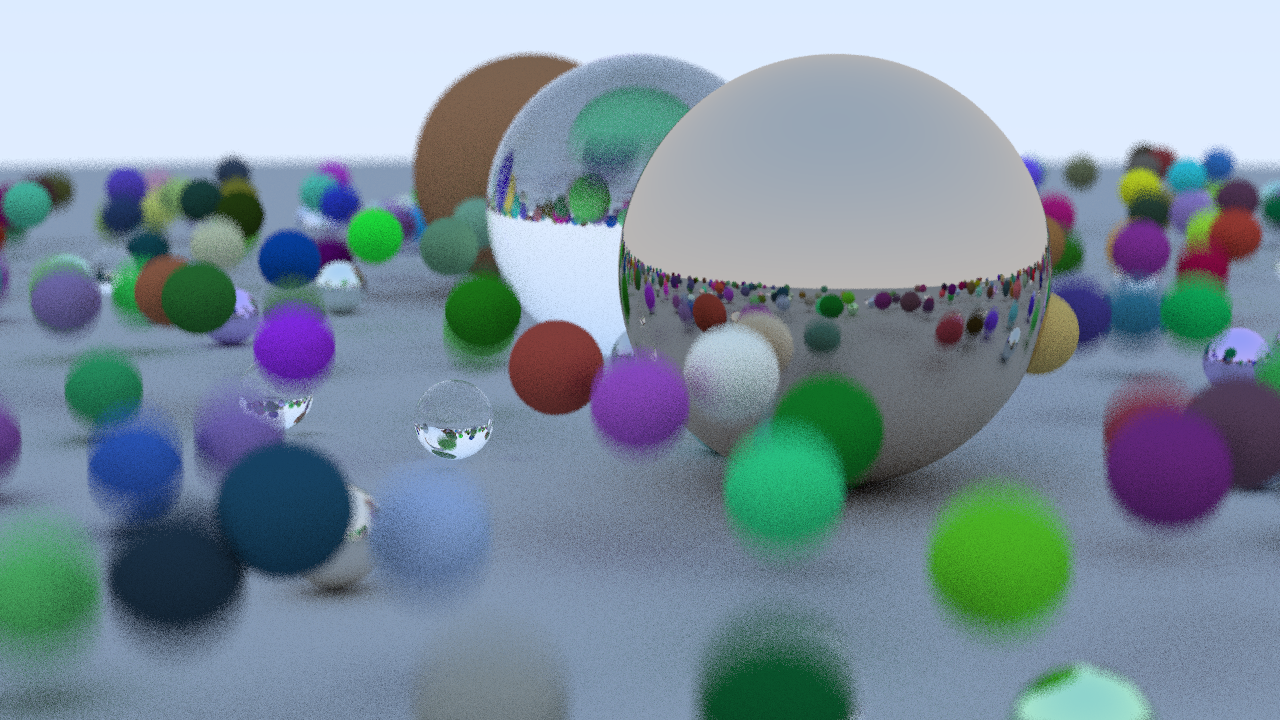
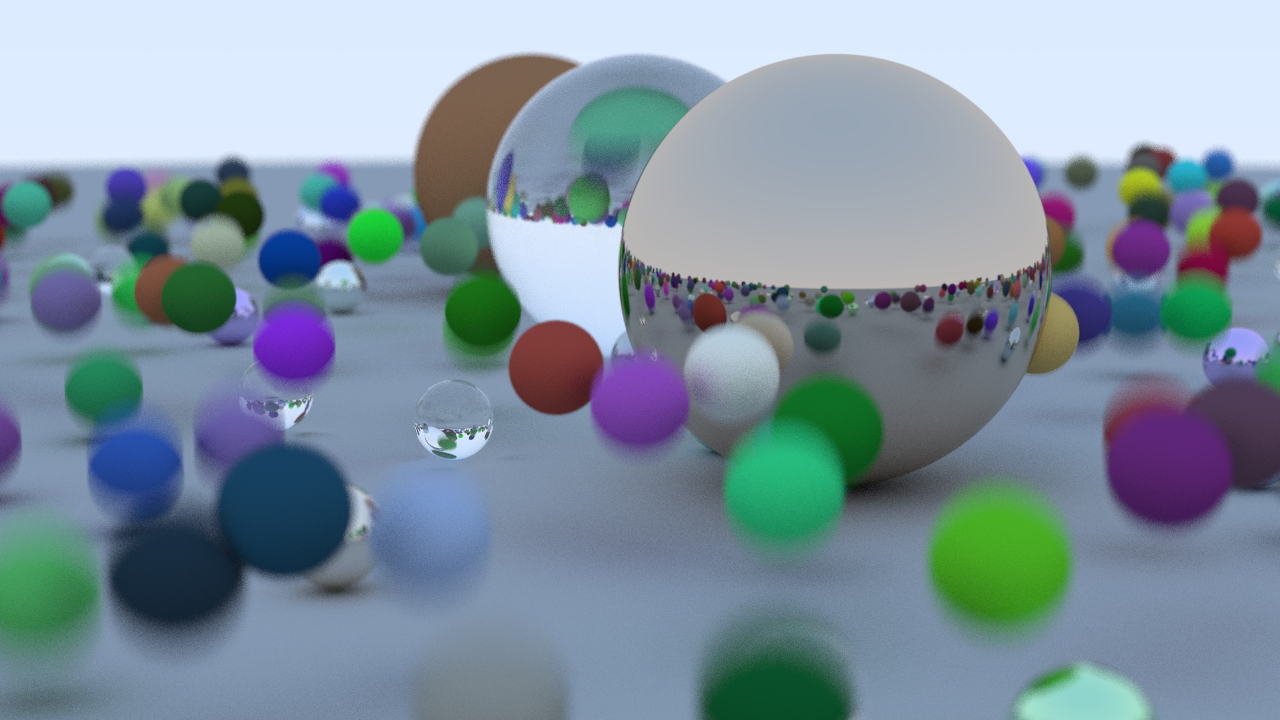
Add scaffold for bounding volume hierarchy

diff --git a/bvh.cpp b/bvh.cpp
@@ -1,0 +1,74 @@
+#include "bvh.hpp"
+
+using namespace rtc;
+
+std::function<bool(std::shared_ptr<Hittable>, std::shared_ptr<Hittable>)> BoxCompare(Axis axis)
+{
+    return [axis](const std::shared_ptr<Hittable> a, const std::shared_ptr<Hittable> b) {
+        AABB box_a, box_b;
+
+        if (!a->BoundingBox(0, 0, box_a) || !a->BoundingBox(0, 0, box_b))
+            return true; // there's no meaningful comparison possible, just return true
+
+        return box_a.min_[axis] < box_b.min_[axis];
+    };
+}
+
+BVHNode::BVHNode(const HittableList &list, double t0, double t1)
+    : BVHNode(list.objects_, 0, list.objects_.size(), t0, t1)
+{
+}
+
+BVHNode::BVHNode(const std::vector<std::shared_ptr<Hittable>> &objects, size_t start, size_t end, double t0, double t1)
+{
+    auto xs = objects; // make a copy!
+    auto comparator = BoxCompare(random_axis());
+
+    // Check how many items are in this subtree. If its one or two, then we have a leaf node. Otherwise we'll need to
+    // recursively construct new left and right BVH nodes.
+    size_t n = end - start;
+    switch (n)
+    {
+    case 0:
+        return;
+    case 1:
+        left_ = right_ = xs[start]; // why is it in both left and right?
+        break;
+    case 2:
+        if (!comparator(xs[start], xs[start + 1]))
+            std::swap(xs[start], xs[start + 1]);
+        left_ = xs[start];
+        right_ = xs[start + 1];
+        break;
+    default:
+        std::sort(xs.begin() + start, xs.begin() + end, comparator);
+        size_t mid = start + n / 2;
+
+        left_ = std::make_shared<BVHNode>(xs, start, mid, t0, t1);
+        right_ = std::make_shared<BVHNode>(xs, mid, end, t0, t1);
+    }
+
+    // finally, make a box for this node
+    AABB box_left, box_right;
+    if (!left_->BoundingBox(t0, t1, box_left) || !right_->BoundingBox(t0, t1, box_right))
+        std::cerr << "BVHNode: could not get bounding box when constructing\n";
+
+    box_ = AABB::Surround(box_left, box_right);
+}
+
+bool BVHNode::Hit(const Ray &ray, double tmin, double tmax, HitRecord &record) const
+{
+    if (!box_.Hit(ray, tmin, tmax))
+        return false;
+
+    // We'll hit the left or right or both. But we only want the hit with the smallest t.
+    bool hit_left = left_->Hit(ray, tmin, tmax, record);
+    bool hit_right = right_->Hit(ray, tmin, hit_left ? record.t_ : tmax, record);
+    return hit_left || hit_right;
+}
+
+bool BVHNode::BoundingBox(double t0, double t1, AABB &box) const
+{
+    box = box_;
+    return true;
+}

diff --git a/base.hpp b/base.hpp
@@ -3,10 +3,10 @@
 
 #include "pch.hpp"
 
-#define SAMPLES_PER_PIXEL_DEFAULT 1
+#define SAMPLES_PER_PIXEL_DEFAULT 4
 #define MAX_DEPTH_DEFAULT 50
-#define RES_W_DEFAULT 1280
-#define RES_H_DEFAULT 720
+#define RES_W_DEFAULT 512
+#define RES_H_DEFAULT 256
 #define VFOV_DEFAULT 0.34906585 // 20 degrees
 
 using color = glm::dvec4;
@@ -15,6 +15,16 @@ using vec3 = glm::dvec3;
 
 const double epsilon = 1e-8;
 const double infinity = std::numeric_limits<double>::max();
+
+enum Axis
+{
+    x = 0,
+    y,
+    z,
+};
+
+static std::random_device rd;
+static std::mt19937 rng(rd());
 
 // a random floating point number in [0, 1)
 inline double rand_double()
@@ -36,6 +46,13 @@ inline color rand_color()
 inline color rand_color(double min, double max)
 {
     return color(rand_double(min, max), rand_double(min, max), rand_double(min, max), 1);
+}
+
+// See https://stackoverflow.com/a/19728404/13317332
+inline Axis random_axis()
+{
+    static std::uniform_int_distribution<int> uni(Axis::x, Axis::z);
+    return (Axis)uni(rng);
 }
 
 template <glm::length_t n, typename T> inline std::ostream &operator<<(std::ostream &stream, glm::vec<n, T> v)

diff --git a/aabb.cpp b/aabb.cpp
@@ -1,0 +1,33 @@
+#include "aabb.hpp"
+#include <utility>
+
+using namespace rtc;
+
+AABB::AABB(point min, point max) : min_(min), max_(max)
+{
+}
+
+bool AABB::Hit(const Ray &ray, double t_min, double t_max) const
+{
+    // Straightforward but tricky at the same time. For a ray with equation P + tv, where P is its origin and v the
+    // direction we compute a (t0, t1) where the ray intersects each pair of planes of the box (the box is defined by a
+    // min and max point, but this is the same as 6 planes which "bound" the box).
+    for (int i = 0; i < 3; i++)
+    {
+        double inv_d = 1.0 / ray.dir_[i];
+        double t0 = (min_[i] - ray.origin_[i]) * inv_d;
+        double t1 = (max_[i] - ray.origin_[i]) * inv_d;
+        if (inv_d < 0.0)
+            std::swap(t0, t1);
+        t_min = t0 > t_min ? t0 : t_min;
+        t_max = t1 < t_max ? t1 : t_max;
+        if (t_max <= t_min)
+            return false;
+    }
+    return true;
+}
+
+AABB AABB::Surround(const AABB &a, const AABB &b)
+{
+    return AABB(glm::min(a.min_, b.min_), glm::max(a.max_, b.max_));
+}

diff --git a/positioner.hpp b/positioner.hpp
@@ -3,18 +3,25 @@
 
 #include "base.hpp"
 
-// encapsulates some kind of function defined over real numbers
+// in essence encapsulates some kind of function defined over real numbers
 class Positioner
 {
   public:
     virtual point At(double time) = 0;
+    // gives the max x, y, z coordinates possible
+    virtual point Max() = 0;
+    // gives the min x, y, z coordinates possible
+    virtual point Min() = 0;
 };
 
+// Can represent a stationary object.
 class Stationary : public Positioner
 {
   public:
     Stationary(point p);
     virtual point At(double time) override;
+    virtual point Max() override;
+    virtual point Min() override;
 
   public:
     point p_;
@@ -25,6 +32,8 @@ class Parabolic : public Positioner
   public:
     Parabolic(double period, double start = 0, point low = point(0, 0, 0), point high = point(0, 1, 0));
     virtual point At(double time) override;
+    virtual point Max() override;
+    virtual point Min() override;
 
   private:
     double a_, b_;

diff --git a/bvh.hpp b/bvh.hpp
@@ -1,0 +1,30 @@
+#ifndef BVH_H
+#define BVH_H
+
+#include "aabb.hpp"
+#include "hittable.hpp"
+#include "hittable_list.hpp"
+
+namespace rtc
+{
+
+// A tree of hittables. Only the leaves are "primitive" objects, every internal node is an actual BVHNode.
+class BVHNode : public Hittable
+{
+  public:
+    BVHNode() = default;
+    BVHNode(const HittableList &list, double t0, double t1);
+    BVHNode(const std::vector<std::shared_ptr<Hittable>> &objects, size_t start, size_t end, double t0, double t1);
+
+    virtual bool Hit(const Ray &ray, double tmin, double tmax, HitRecord &record) const override;
+    virtual bool BoundingBox(double t0, double t1, AABB &box) const override;
+
+  public:
+    std::shared_ptr<Hittable> left_ = nullptr;
+    std::shared_ptr<Hittable> right_ = nullptr;
+    AABB box_;
+};
+
+} // namespace rtc
+
+#endif

diff --git a/hittable.hpp b/hittable.hpp
@@ -1,6 +1,7 @@
 #ifndef HITTABLE_H
 #define HITTABLE_H
 
+#include "aabb.hpp"
 #include "base.hpp"
 #include "ray.hpp"
 
@@ -45,7 +46,11 @@ class Hittable
   public:
     Hittable() = default;
     virtual ~Hittable() = default;
+
     virtual bool Hit(const Ray &ray, double tmin, double tmax, HitRecord &record) const = 0;
+    // Constructs a bounding box for this object. Returns false if impossible (e.g. if object is a plane).
+    // TODO: make all implementors cache this
+    virtual bool BoundingBox(double t0, double t1, AABB &box) const = 0;
 };
 
 } // namespace rtc

diff --git a/positioner.cpp b/positioner.cpp
@@ -9,6 +9,16 @@ point Stationary::At(double time)
     return p_;
 }
 
+point Stationary::Min()
+{
+    return p_;
+}
+
+point Stationary::Max()
+{
+    return p_;
+}
+
 Parabolic::Parabolic(double period, double start, point low, point high) : period_(period), low_(low), dir_(high - low)
 {
     a_ = -4 / (period * period);
@@ -22,4 +32,14 @@ point Parabolic::At(double t)
     if (t < 0)
         t = -t;
     return low_ + (a_ * t * t + b_ * t) * dir_;
+}
+
+point Parabolic::Min()
+{
+    return low_;
+}
+
+point Parabolic::Max()
+{
+    return low_ + dir_;
 }

diff --git a/hittable_list.cpp b/hittable_list.cpp
@@ -38,3 +38,20 @@ bool HittableList::Hit(const Ray &ray, double tmin, double tmax, HitRecord &reco
 
     return hit_something;
 }
+
+bool HittableList::BoundingBox(double t0, double t1, AABB &box) const
+{
+    if (objects_.empty())
+        return false;
+
+    AABB temp_box;
+    bool first_box = true;
+    for (const auto &o : objects_)
+    {
+        if (!o->BoundingBox(t0, t1, temp_box))
+            return false;
+        box = first_box ? temp_box : AABB::Surround(temp_box, box);
+        first_box = false;
+    }
+    return true;
+}

diff --git a/aabb.hpp b/aabb.hpp
@@ -1,0 +1,26 @@
+#ifndef AABB_H
+#define AABB_H
+
+#include "base.hpp"
+#include "ray.hpp"
+
+namespace rtc
+{
+
+class AABB
+{
+  public:
+    AABB() = default;
+    AABB(point min, point max);
+
+    bool Hit(const Ray &ray, double t_min, double t_max) const;
+    static AABB Surround(const AABB &a, const AABB &b);
+
+  public:
+    point min_ = point(0, 0, 0);
+    point max_ = point(0, 0, 0);
+};
+
+} // namespace rtc
+
+#endif

diff --git a/hittable_list.hpp b/hittable_list.hpp
@@ -12,6 +12,7 @@ class HittableList : public Hittable
     HittableList();
     ~HittableList() override;
     virtual bool Hit(const Ray &ray, double tmin, double tmax, HitRecord &record) const override;
+    virtual bool BoundingBox(double t0, double t1, AABB &box) const override;
 
     void Clear(); // clears all objects in this list
     void Add(std::shared_ptr<Hittable> object);

diff --git a/sphere.cpp b/sphere.cpp
@@ -44,3 +44,10 @@ bool Sphere::Hit(const Ray &ray, double tmin, double tmax, HitRecord &record) co
 
     return true;
 }
+
+bool Sphere::BoundingBox(double t0, double t1, AABB &box) const
+{
+    box.min_ = position_->Min() - vec3(radius_, radius_, radius_);
+    box.max_ = position_->Max() - vec3(radius_, radius_, radius_);
+    return true;
+}

diff --git a/sphere.hpp b/sphere.hpp
@@ -16,6 +16,7 @@ class Sphere : public Hittable
     ~Sphere() override;
 
     virtual bool Hit(const Ray &ray, double tmin, double tmax, HitRecord &record) const override;
+    virtual bool BoundingBox(double t0, double t1, AABB &box) const override;
 
   public:
     double radius_;
